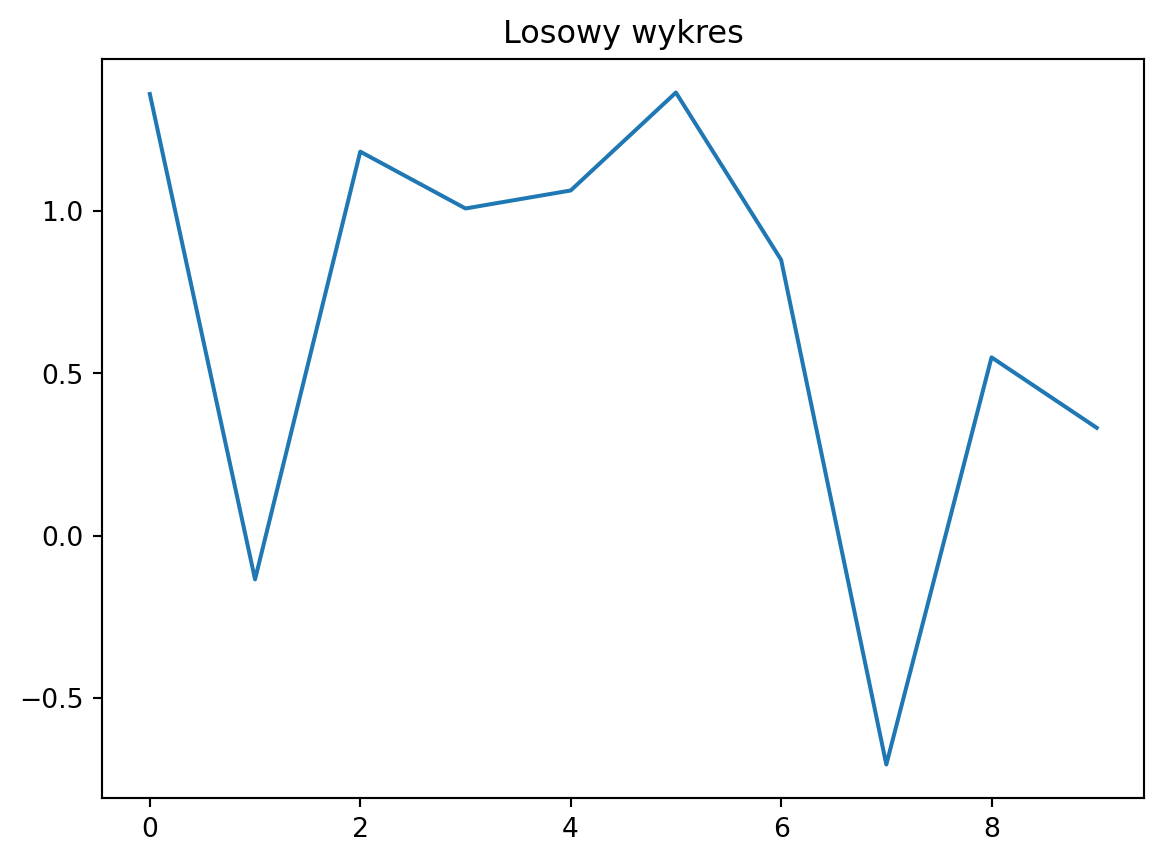
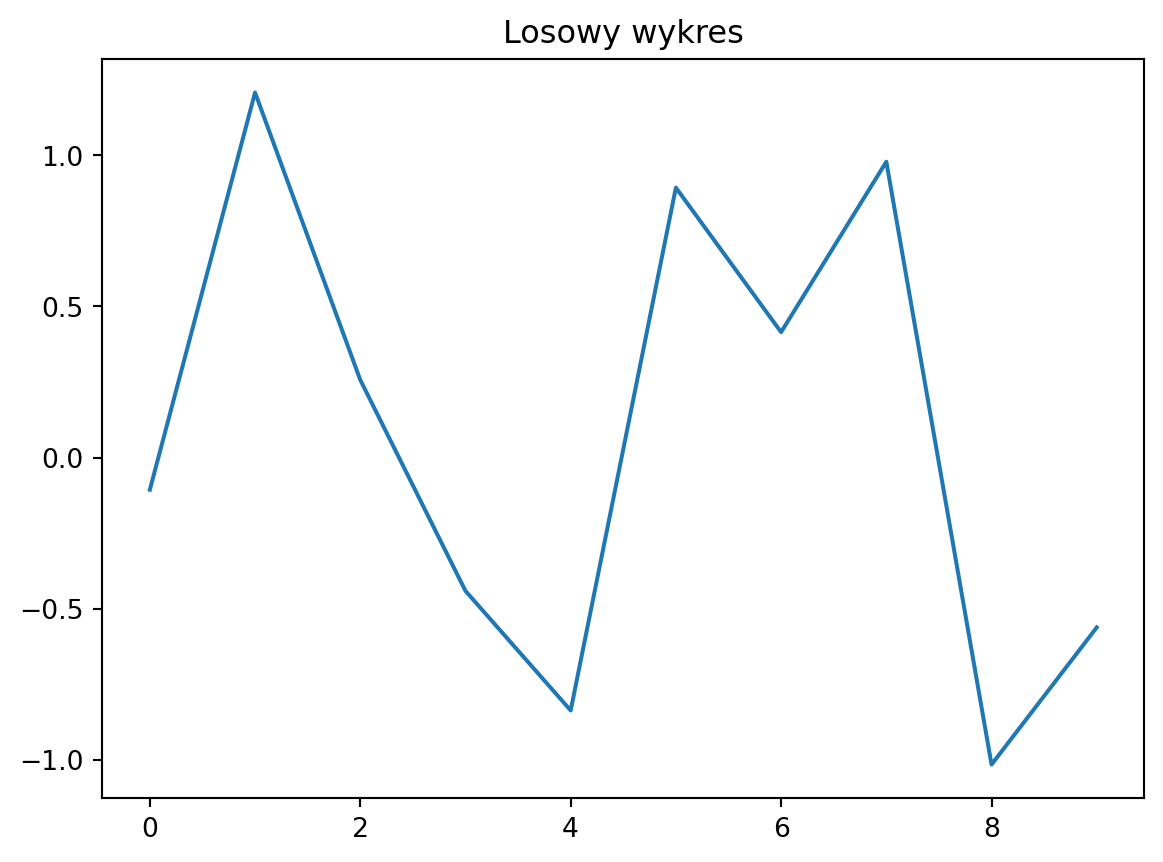
twitter

diff --git a/docs/posts/python_w_analizie/python_w_analizie.html b/docs/posts/python_w_analizie/python_w_analizie.html
@@ -182,7 +182,7 @@ ul.task-list li input[type="checkbox"] {
 <section id="wprowadzenie" class="level2">
 <h2 class="anchored" data-anchor-id="wprowadzenie">Wprowadzenie</h2>
 <p>W tym poście pokażę, jak wygenerować dane w Pythonie i automatycznie przedstawić je na wykresie. Na koniec wygeneruję kilka standardowych kodów. <strong>Update2</strong>. D.</p>
-<div id="413e691d" class="cell" data-execution_count="1">
+<div id="ba29eafc" class="cell" data-execution_count="1">
 <div class="cell-output cell-output-display" data-execution_count="1">
 <div>
 
@@ -199,52 +199,52 @@ ul.task-list li input[type="checkbox"] {
 <tr class="odd">
 <th data-quarto-table-cell-role="th">0</th>
 <td>0</td>
-<td>1.359942</td>
+<td>-0.106298</td>
 </tr>
 <tr class="even">
 <th data-quarto-table-cell-role="th">1</th>
 <td>1</td>
-<td>-0.134359</td>
+<td>1.207461</td>
 </tr>
 <tr class="odd">
 <th data-quarto-table-cell-role="th">2</th>
 <td>2</td>
-<td>1.182540</td>
+<td>0.256992</td>
 </tr>
 <tr class="even">
 <th data-quarto-table-cell-role="th">3</th>
 <td>3</td>
-<td>1.007542</td>
+<td>-0.440923</td>
 </tr>
 <tr class="odd">
 <th data-quarto-table-cell-role="th">4</th>
 <td>4</td>
-<td>1.062895</td>
+<td>-0.836309</td>
 </tr>
 <tr class="even">
 <th data-quarto-table-cell-role="th">5</th>
 <td>5</td>
-<td>1.364492</td>
+<td>0.892875</td>
 </tr>
 <tr class="odd">
 <th data-quarto-table-cell-role="th">6</th>
 <td>6</td>
-<td>0.849473</td>
+<td>0.414908</td>
 </tr>
 <tr class="even">
 <th data-quarto-table-cell-role="th">7</th>
 <td>7</td>
-<td>-0.704385</td>
+<td>0.978630</td>
 </tr>
 <tr class="odd">
 <th data-quarto-table-cell-role="th">8</th>
 <td>8</td>
-<td>0.549193</td>
+<td>-1.015189</td>
 </tr>
 <tr class="even">
 <th data-quarto-table-cell-role="th">9</th>
 <td>9</td>
-<td>0.332239</td>
+<td>-0.561726</td>
 </tr>
 </tbody>
 </table>
@@ -252,7 +252,7 @@ ul.task-list li input[type="checkbox"] {
 </div>
 </div>
 </div>
-<div id="ec9f221f" class="cell" data-execution_count="2">
+<div id="2d8a3e24" class="cell" data-execution_count="2">
 <div class="cell-output cell-output-display">
 <div>
 <figure class="figure">
@@ -261,7 +261,7 @@ ul.task-list li input[type="checkbox"] {
 </div>
 </div>
 </div>
-<div id="c5fe0546" class="cell" data-execution_count="3">
+<div id="b43a60dc" class="cell" data-execution_count="3">
 <div class="cell-output cell-output-display" data-execution_count="3">
 <div>
 
@@ -283,37 +283,37 @@ ul.task-list li input[type="checkbox"] {
 <tr class="even">
 <th data-quarto-table-cell-role="th">mean</th>
 <td>4.50000</td>
-<td>0.686957</td>
+<td>0.079042</td>
 </tr>
 <tr class="odd">
 <th data-quarto-table-cell-role="th">std</th>
 <td>3.02765</td>
-<td>0.681769</td>
+<td>0.791615</td>
 </tr>
 <tr class="even">
 <th data-quarto-table-cell-role="th">min</th>
 <td>0.00000</td>
-<td>-0.704385</td>
+<td>-1.015189</td>
 </tr>
 <tr class="odd">
 <th data-quarto-table-cell-role="th">25%</th>
 <td>2.25000</td>
-<td>0.386478</td>
+<td>-0.531525</td>
 </tr>
 <tr class="even">
 <th data-quarto-table-cell-role="th">50%</th>
 <td>4.50000</td>
-<td>0.928508</td>
+<td>0.075347</td>
 </tr>
 <tr class="odd">
 <th data-quarto-table-cell-role="th">75%</th>
 <td>6.75000</td>
-<td>1.152629</td>
+<td>0.773383</td>
 </tr>
 <tr class="even">
 <th data-quarto-table-cell-role="th">max</th>
 <td>9.00000</td>
-<td>1.364492</td>
+<td>1.207461</td>
 </tr>
 </tbody>
 </table>
